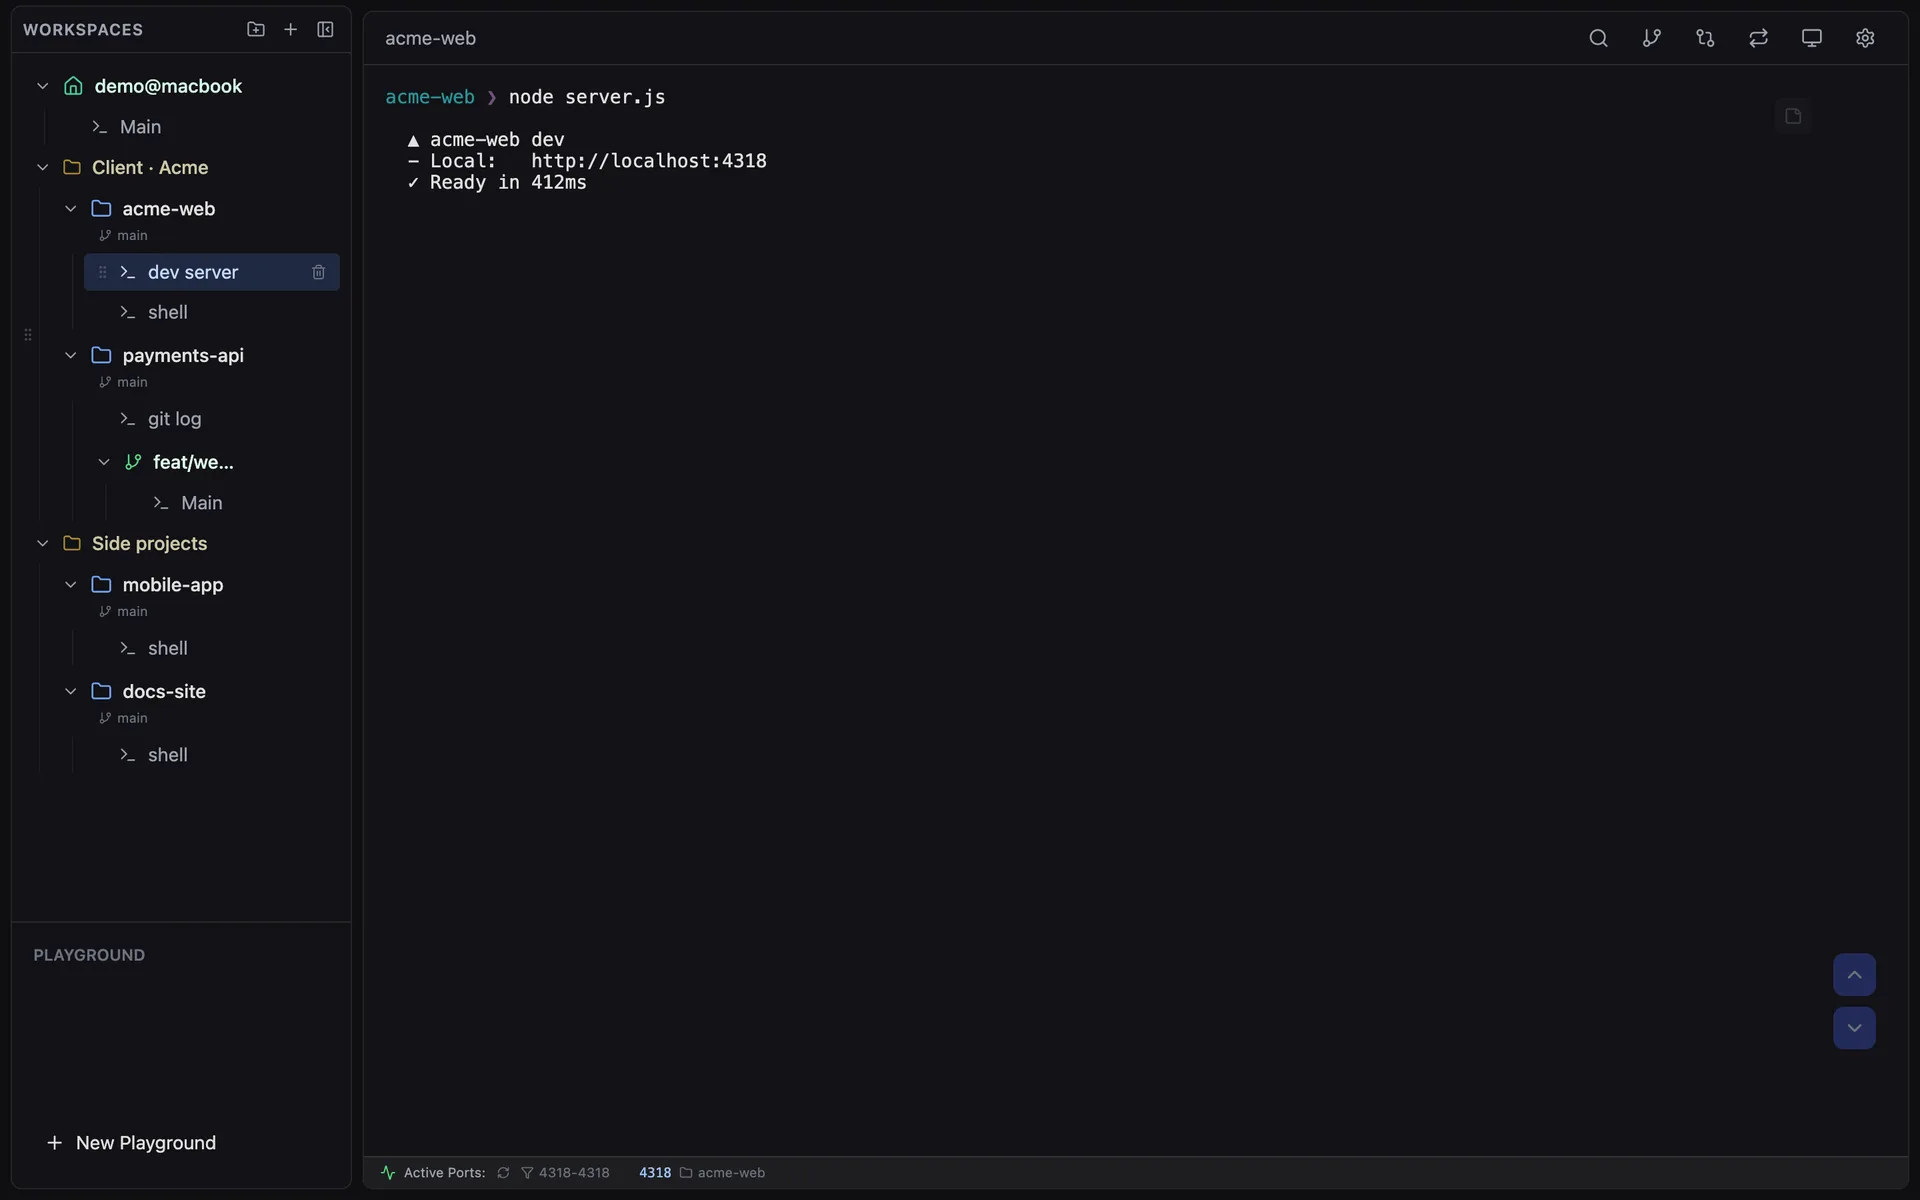
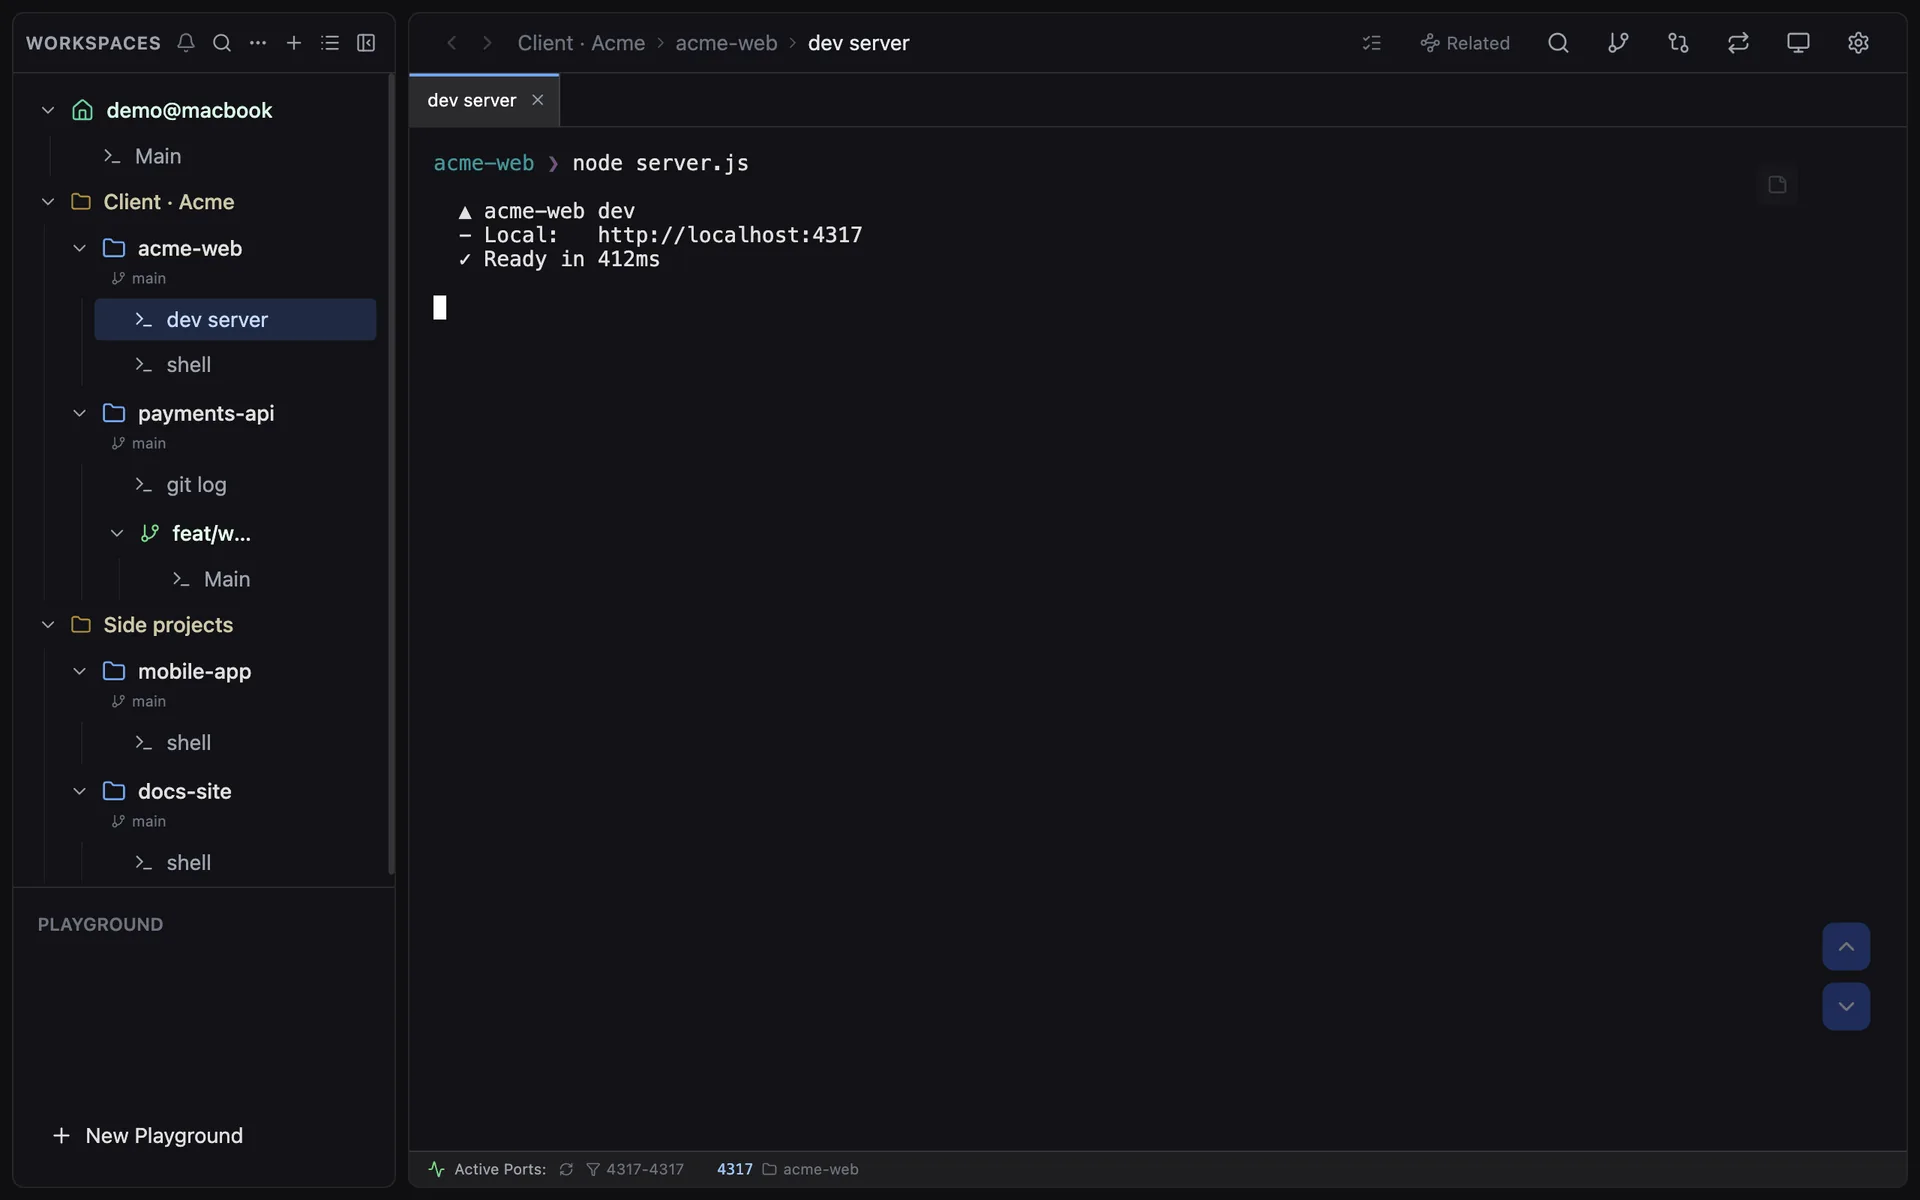
chore(site): 앱 스크린샷 9장을 v1.36.0 데모 인스턴스로 다시 찍는다
- v1.10.0 캡처 → v1.36.0(가짜 프로젝트·별도 프로필, Claude 계정 안 씀). 9장 모두 눈으로 개인정보 확인
- 지난번 캡처 스크립트가 남아 있지 않아 scripts/app-screenshots/ 에 두고 README 로 다시 찍는 법을 적는다
- 주석의 버전 표기 v1.10.0 → v1.36.0

diff --git a/app/gallery/page.tsx b/app/gallery/page.tsx
@@ -6,7 +6,7 @@ import { ProductList, Product } from "../../components/product-list"
 import { ImageGallery } from "../../components/image-gallery"
 import { Bot, FlaskConical, GitBranch, GitCompare, Github, Network, StickyNote, Terminal } from "lucide-react"
 
-// 스틸 이미지는 데모 인스턴스(가짜 프로젝트)에서 찍은 v1.10.0 화면(public/screenshots)으로 바꿨다.
+// 스틸 이미지는 데모 인스턴스(가짜 프로젝트)에서 찍은 v1.36.0 화면(public/screenshots)으로 바꿨다.
 // 옛 전체 화면 캡처(worktree-*.png·main-*.png 등)는 개인 경로·실제 프로젝트명이 보여 뺐다.
 // 옛 녹화 영상(.mp4)은 개인 경로·실제 프로젝트명이 찍혀 있어 뺐다(2026-09-30). 데모 인스턴스로 다시 찍으면 첫 번째 자리에 넣는다.
 const products = [

diff --git a/app/landing-page.tsx b/app/landing-page.tsx
@@ -18,8 +18,8 @@ import { HERO_DEMO_VIDEO } from "../lib/demo-video"
 import { ImageGallery } from "../components/image-gallery"
 import { Maximize2 } from "lucide-react"
 
-// 홈 기능 섹션. 스크린샷은 데모 인스턴스(가짜 프로젝트·별도 프로필)에서 v1.10.0 으로 찍었다 — 개인 경로·계정이 없다.
-// 새로 찍을 때도 같은 방식으로(사용자 앱에서 찍지 않는다).
+// 홈 기능 섹션. 스크린샷은 데모 인스턴스(가짜 프로젝트·별도 프로필)에서 v1.36.0 으로 찍었다 — 개인 경로·계정이 없다.
+// 새로 찍을 때도 같은 방식으로: scripts/app-screenshots/shots.mjs (사용자 앱에서 찍지 않는다).
 interface HomeFeature {
   title: string
   description: string

diff --git a/components/documentation-section.tsx b/components/documentation-section.tsx
@@ -20,7 +20,7 @@ export default function DocumentationSection() {
   const [activeCard, setActiveCard] = useState(0)
   const [animationKey, setAnimationKey] = useState(0)
 
-  // 스크린샷: 데모 인스턴스에서 찍은 v1.10.0 화면(public/screenshots) — 개인 경로·계정 없음
+  // 스크린샷: 데모 인스턴스에서 찍은 v1.36.0 화면(public/screenshots, scripts/app-screenshots) — 개인 경로·계정 없음
   const cards = [
     {
       title: "Run Every Agent Side by Side",

diff --git a/scripts/app-screenshots/README.md b/scripts/app-screenshots/README.md
@@ -1,0 +1,14 @@
+# 앱 스크린샷 다시 찍기
+
+`public/screenshots/*.webp` 9장(1920x1200)은 CLI Manager **데모 인스턴스**에서 찍는다 — 가짜 프로젝트(`/private/tmp/acme-shots`)·
+별도 프로필·Control API 빈 포트(47861~)·Claude 계정 없음. 사용자 앱(47821)과 `~/.climanager` 는 건드리지 않고 창도 안 띄운다.
+
+```bash
+# CLImanger 를 먼저 빌드해 둔다(out/). 앱 버전이 Settings 바닥에 찍힌다.
+cd ~/Downloads/CLImanger && heavy-run --short -- node ~/Downloads/solhun-web-page/scripts/app-screenshots/shots.mjs
+SHOTS_OUT=/tmp/shots heavy-run --short -- node …/shots.mjs   # 저장소를 덮지 않고 받아 보기
+```
+
+- 찍은 뒤 9장을 눈으로 열어 실제 경로·사용자명·호스트·메일·토큰이 없는지 본다.
+- `app/landing-page.tsx`·`components/documentation-section.tsx`·`app/gallery/page.tsx` 주석의 버전을 같이 고친다.
+- 마지막 회차: 2026-11-22 v1.36.0 (fb-1122).
